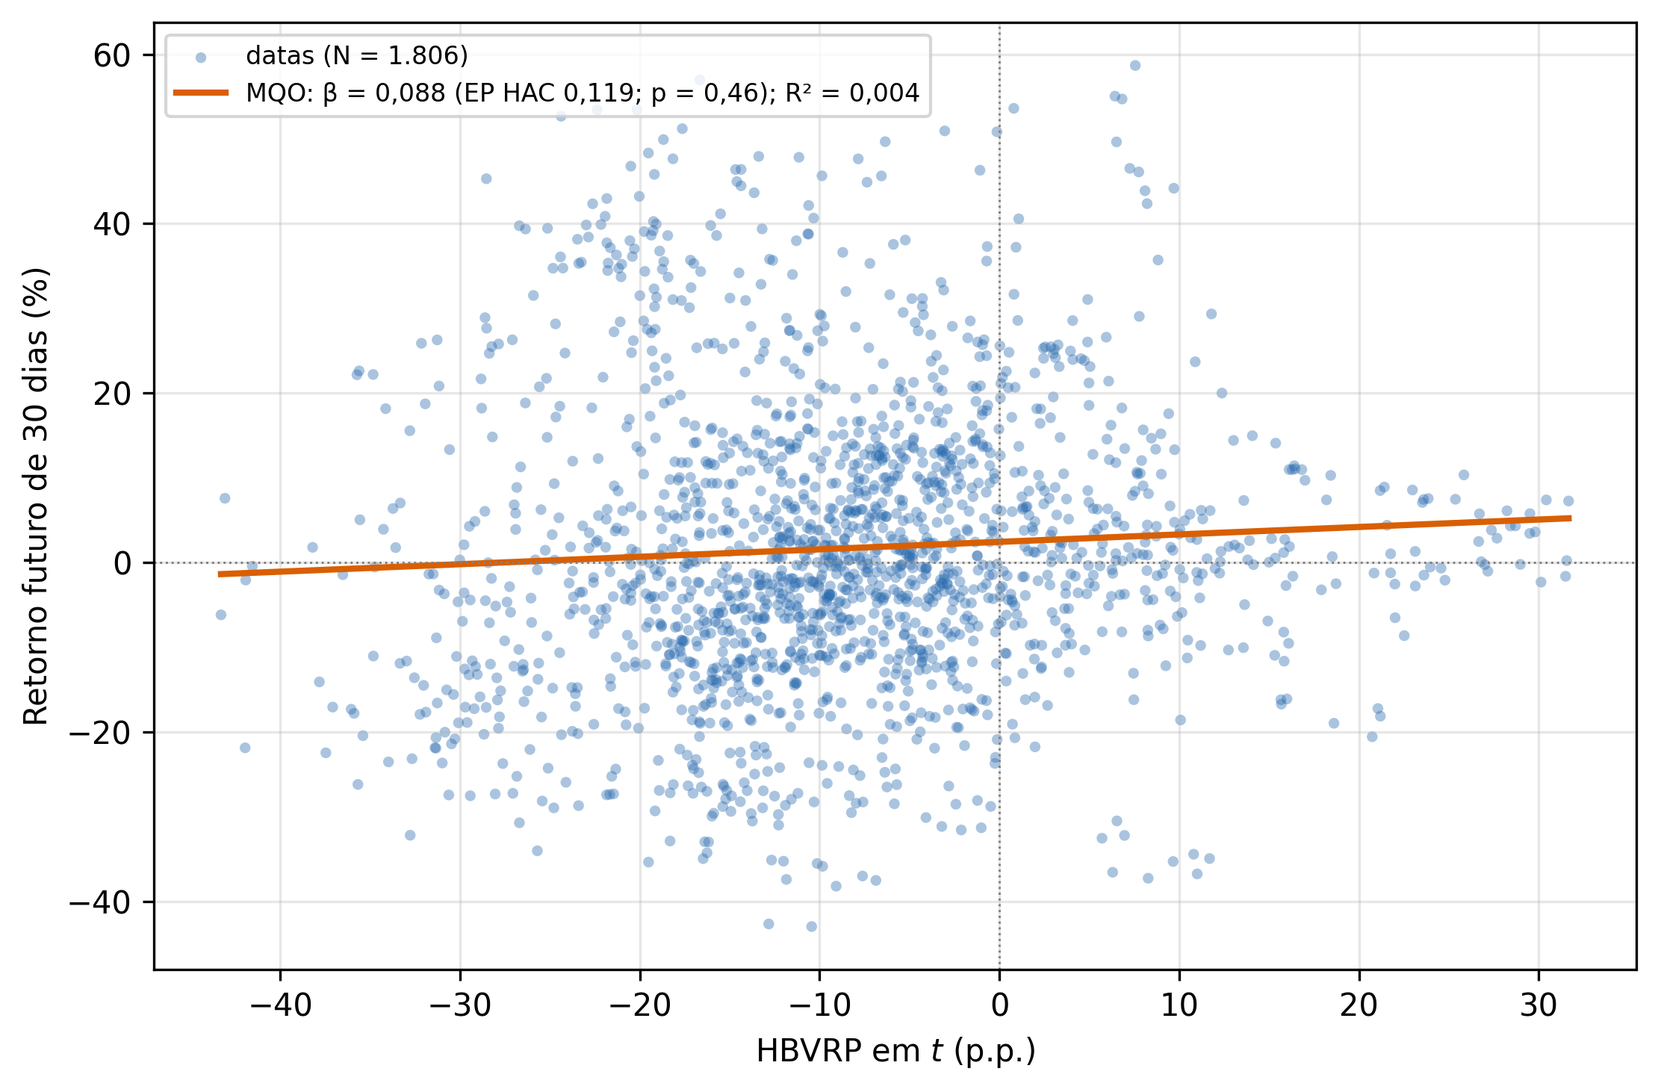
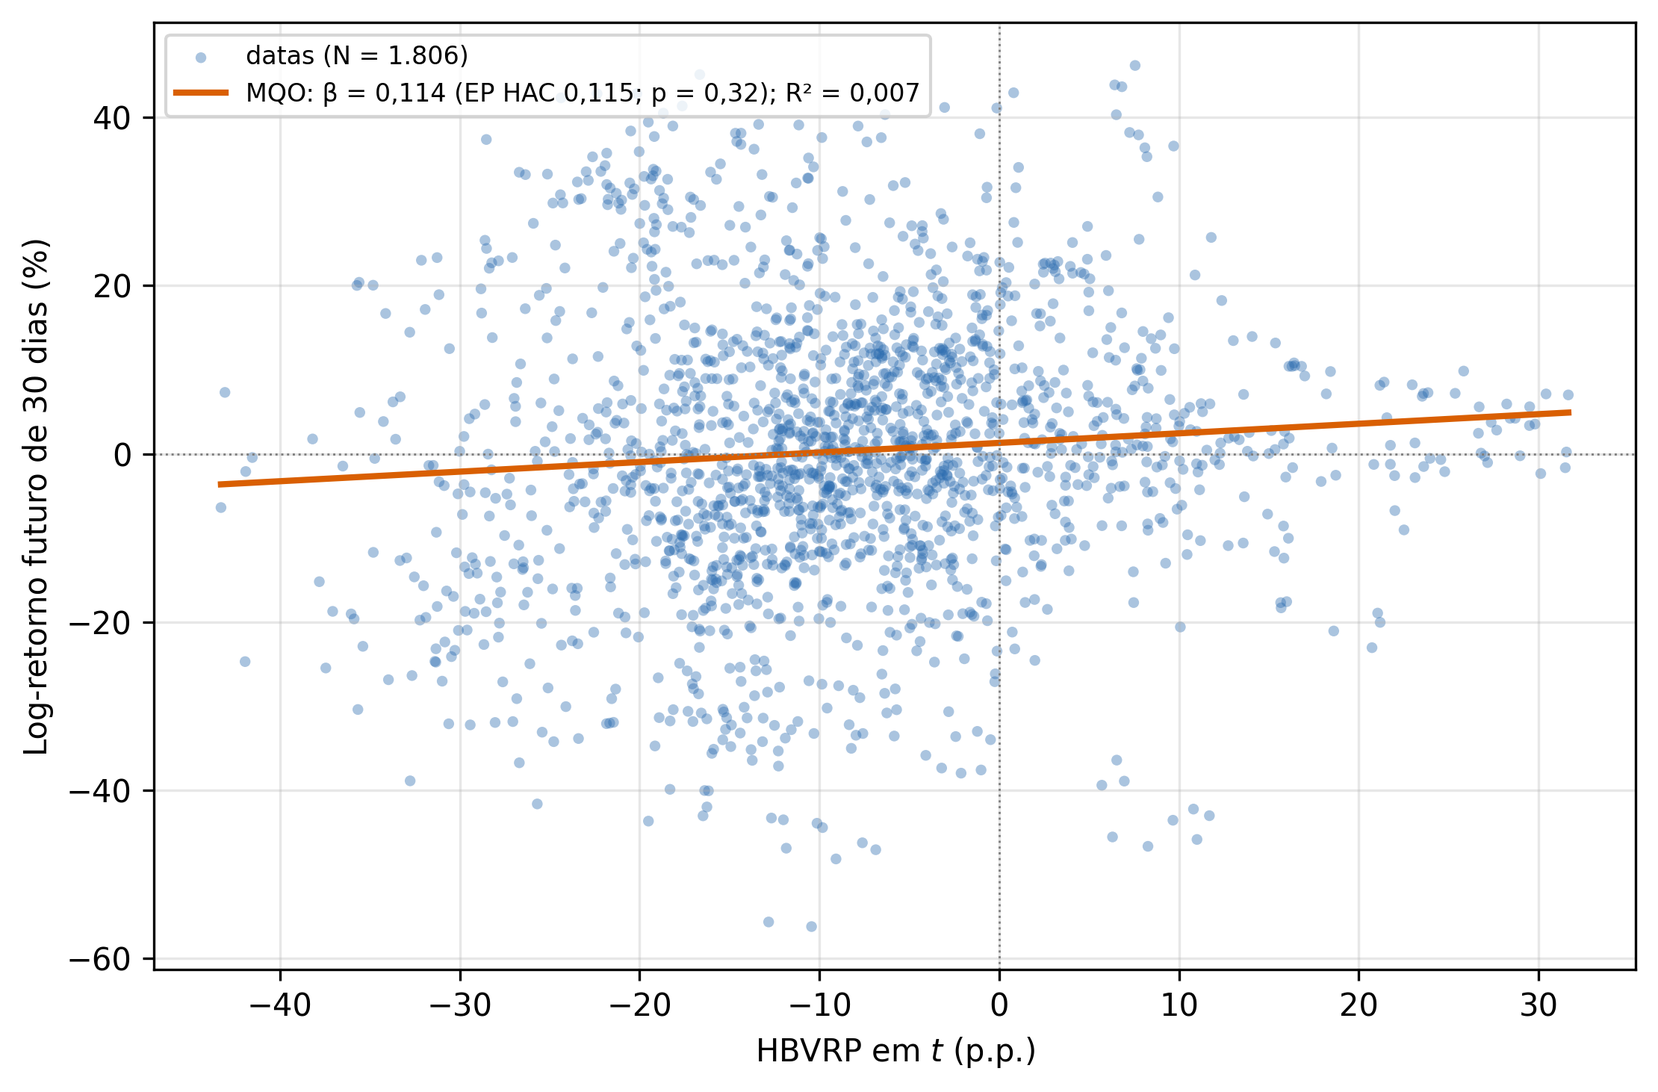
Rodada 3, B2: metodologia e dados com log-retorno, Wald, rotação, bootstrap de pares e Holm; figura 3.5 com log-retorno; Holm, Freedman–Lane e Politis–Romano na bibliografia

diff --git a/chapters/metodologia.tex b/chapters/metodologia.tex
@@ -10,10 +10,11 @@ amostras e os modelos utilizados ao longo da dissertação.
 
 A estratégia empírica tem duas etapas. Na primeira, a dissertação prevê o RBVRP
 fora da amostra, apenas com informação disponível em $t$. Na segunda, testa se
-o BVRP previsto prevê os retornos futuros do Bitcoin, primeiro com um modelo
-linear e depois com um modelo não linear em árvore, capaz de capturar
-não linearidades, efeitos de regime e interações características do mercado de
-criptoativos. Este capítulo concentra-se na definição formal das amostras e das
+as variáveis disponíveis em $t$ preveem o log-retorno futuro do Bitcoin,
+primeiro com um modelo linear e depois com a floresta aleatória, capaz de
+capturar não linearidades, efeitos de regime e interações características do
+mercado de criptoativos; o BVRP previsto entra como fator único, de forma
+complementar. Este capítulo concentra-se na definição formal das amostras e das
 especificações empíricas; os capítulos seguintes apresentam os
 resultados.
 
@@ -30,13 +31,14 @@ Quatro questões guiam a análise empírica, cada uma tratada em um capítulo:
     \item \textbf{Previsão do prêmio}: a informação disponível em $t$ prevê o
           RBVRP fora da amostra melhor que a média histórica? O
           Capítulo~\ref{chap:previsao_bvrp} compara modelos lineares e em árvore.
-    \item \textbf{Previsibilidade linear dos retornos}: o BVRP previsto prevê
-          linearmente os retornos futuros do Bitcoin? O
-          Capítulo~\ref{chap:retornos_linear} estima regressões lineares em seis
-          horizontes.
-    \item \textbf{Previsibilidade não linear}: um modelo em árvore, que escolhe
-          sozinho os cortes nas volatilidades, encontra a relação que o modelo
-          linear não encontra? O Capítulo~\ref{chap:retornos_nao_linear} responde.
+    \item \textbf{Previsibilidade linear dos retornos}: as variáveis
+          disponíveis em $t$ preveem linearmente o log-retorno do Bitcoin nos
+          $h$ dias seguintes, e o BVRP previsto, como fator único, carrega essa
+          informação? O Capítulo~\ref{chap:retornos_linear} testa as duas
+          hipóteses em seis horizontes.
+    \item \textbf{Previsibilidade não linear}: a floresta aleatória, aplicada
+          diretamente ao retorno, encontra a relação que o modelo linear não
+          encontra? O Capítulo~\ref{chap:retornos_nao_linear} responde.
 \end{enumerate}
 
 As estratégias de negociação baseadas no prêmio ficam no
@@ -77,9 +79,10 @@ qualquer $h \le 60$, o treino da primeira origem contém a janela inteira, e o
 período fora da amostra é o mesmo em todos os horizontes. Com $h = 30$, o
 primeiro treino vai até $t - 30$ e tem 760 observações: as 730 da primeira
 janela e as 30 seguintes, cujos alvos já se realizaram. Esse período
-é o mesmo nos Capítulos~\ref{chap:previsao_bvrp} a~\ref{chap:retornos_nao_linear}, porque o
-regressor dos Capítulos~\ref{chap:retornos_linear} e~\ref{chap:retornos_nao_linear} é o BVRP
-previsto no Capítulo~\ref{chap:previsao_bvrp}.
+é o mesmo nos Capítulos~\ref{chap:previsao_bvrp} a~\ref{chap:retornos_nao_linear}, o que
+permite usar o BVRP previsto do Capítulo~\ref{chap:previsao_bvrp} como fator
+único nos Capítulos~\ref{chap:retornos_linear} e~\ref{chap:retornos_nao_linear}
+e comparar as previsões do retorno nas mesmas datas.
 
 Na janela principal, expansiva, o treino acumula todas as datas desde o início
 da amostra de modelagem; como robustez, a janela móvel mantém os últimos 730
@@ -111,45 +114,53 @@ Os modelos de referência, com que as previsões são comparadas fora da
 amostra, são a média histórica dos alvos já conhecidos, o HBVRP e o prêmio
 realizado defasado, $\text{RBVRP}_{t-30}$.
 
-Na segunda etapa, o Capítulo~\ref{chap:retornos_linear} estima, para cada horizonte $h$, o modelo
-linear
+Na segunda etapa, o Capítulo~\ref{chap:retornos_linear} estima, para cada
+horizonte $h \in \{1, 5, 10, 20, 30, 60\}$, a regressão preditiva
 \begin{equation}
-R_{t+h} = \alpha_h + \beta_h \, \widehat{\text{BVRP}}_t + \varepsilon_{t+h},
+R^{\log}_{t,h} = \alpha_h + X_t'\beta_h + \varepsilon_{t+h},
+\label{eq:met-retorno-direto}
+\end{equation}
+em que $R^{\log}_{t,h}$ é o log-retorno do Bitcoin de $t$ a $t+h$
+(Seção~\ref{sec:dados-variaveis}) e $X_t$ reúne 16 das 17 variáveis
+explicativas: a volatilidade histórica de 30 dias sai porque é colinear com o
+HBVRP e a IV. O estimador é o MQO, na amostra de modelagem e nas 987 datas
+fora da amostra, e a hipótese nula é $\beta_h = 0$; a análise não impõe
+restrições \textit{a priori} sobre o sinal dos coeficientes. Fora da amostra,
+o MQO, o Ridge e o LASSO preveem $R^{\log}_{t,h}$ com as 16 variáveis, nas
+origens e com o embargo da Seção~\ref{sec:met-amostras}.
+
+De forma complementar, o BVRP previsto entra como fator único,
+\begin{equation}
+R^{\log}_{t,h} = \alpha_h + \beta_h \, \widehat{\text{BVRP}}_t + \varepsilon_{t+h},
 \label{eq:met-retorno-linear}
 \end{equation}
 em que $\widehat{\text{BVRP}}_t$ é o BVRP previsto para a data $t$ pelo modelo
-estimado na origem vigente, $\alpha_h$ é um intercepto específico ao horizonte
-de previsão, $\beta_h$ é o coeficiente de interesse e $\varepsilon_{t+h}$
-representa o termo de erro. O estimador é o MQO, aplicado às 987 datas fora da
-amostra. O $\widehat{\text{BVRP}}$ principal é o previsto pelo Ridge, e o da floresta aleatória serve de
-robustez --- escolha fixada antes de ver os resultados. A análise não impõe
-restrições \textit{a priori} sobre o sinal de $\beta_h$.
-
-Duas extensões complementam o modelo~\eqref{eq:met-retorno-linear}. A primeira
-substitui o prêmio por seus componentes:
+estimado na origem vigente, nas 987 datas fora da amostra. O
+$\widehat{\text{BVRP}}$ principal é o do Ridge; o da floresta aleatória, na
+forma $\hat f(X_t) - \text{IV}_t$, aparece ao lado. Duas extensões completam a
+análise. A primeira substitui as variáveis pelos dois componentes do HBVRP:
 \begin{equation}
-R_{t+h} = \alpha_h + \beta_{1,h} \, \text{VH}_{t-29:t} + \beta_{2,h} \,
+R^{\log}_{t,h} = \alpha_h + \beta_{1,h} \, \text{VH}_{t-29:t} + \beta_{2,h} \,
 \text{IV}_t + \varepsilon_{t+h}.
 \label{eq:met-retorno-componentes}
 \end{equation}
-Se $\beta_{1,h} + \beta_{2,h} = 0$, a diferença $\text{VH} - \text{IV}$,
-isto é, o HBVRP, sintetiza o conteúdo informacional conjunto das duas medidas. A segunda
-acrescenta o regime de volatilidade:
+Se $\beta_{1,h} + \beta_{2,h} = 0$, a diferença $\text{VH} - \text{IV}$, isto
+é, o HBVRP, sintetiza o conteúdo informacional conjunto das duas medidas. A
+segunda acrescenta o regime de volatilidade ao fator único:
 \begin{equation}
-R_{t+h} = \alpha_h + \beta_h \, \widehat{\text{BVRP}}_t + \delta_h \, D_t
+R^{\log}_{t,h} = \alpha_h + \beta_h \, \widehat{\text{BVRP}}_t + \delta_h \, D_t
 + \gamma_h \, D_t \, \widehat{\text{BVRP}}_t + \varepsilon_{t+h},
 \label{eq:met-retorno-regime}
 \end{equation}
-em que $D_t = 1$ no regime de alta volatilidade
-(Seção~\ref{sec:met-regimes}).
+em que $D_t = 1$ no regime de alta volatilidade (Seção~\ref{sec:met-regimes}).
 
-No modelo em árvore, o Capítulo~\ref{chap:retornos_nao_linear} reestima o modelo~\eqref{eq:met-retorno-linear} com
-$\widehat{\text{BVRP}}_t = \hat{f}(X_t) - \text{IV}_t$, em que $\hat{f}$ é uma
-floresta aleatória que prevê $\text{RV}_{t+1:t+30}$ com as mesmas variáveis,
-origens e embargo. A floresta escolhe sozinha os cortes nas volatilidades, o
-que substitui os regimes construídos à mão por um único modelo em árvore. Como
-robustez, a floresta prevê o RBVRP diretamente, e o Ridge entra nas duas
-formas.
+No Capítulo~\ref{chap:retornos_nao_linear}, uma floresta aleatória prevê o
+log-retorno diretamente, $R^{\log}_{t,h} = g_h(X_t) + \varepsilon_{t+h}$, com
+as 17 variáveis em nível, as mesmas origens e o embargo de $h$ dias, e é
+comparada fora da amostra com a média histórica e com os modelos lineares. A
+floresta escolhe sozinha os cortes nas volatilidades, o que substitui os
+regimes construídos à mão por um único modelo. Análises complementares usam o
+BVRP previsto pela floresta.
 
 % =========================================================
 \section{Inferência estatística}
@@ -169,30 +180,39 @@ erro-padrão do estimador de MQO, não no estimador. Mesmo com ela, 987 datas co
 alvos de 30 dias sobrepostos equivalem a cerca de 33 observações
 independentes, e os testes têm pouco poder.
 
-Nos Capítulos~\ref{chap:retornos_linear} e~\ref{chap:retornos_nao_linear}, o regressor é
-gerado: o BVRP previsto vem de um primeiro estágio estimado, e o erro-padrão de
-MQO do segundo estágio ignora a incerteza dessa estimação \citep{pagan1984}.
-Por isso, a inferência principal usa um bootstrap em blocos em dois níveis
-\citep{kunsch1989}. No primeiro nível, o bootstrap reestima o modelo de
-previsão, em cada origem, numa amostra reamostrada em blocos dentro da própria
-janela de treino, o que preserva o embargo. No segundo, reamostra em blocos os
-pares (previsão, retorno) das 987 datas e reestima $\beta_h$. O bootstrap em
-blocos tem validade assintótica sob condições sobre o tamanho do bloco, que
-cresce com a amostra, e pode trazer refinamentos em amostras finitas em alguns
-casos; ele não dispensa hipóteses assintóticas. O
-Capítulo~\ref{chap:retornos_linear} detalha o procedimento. Como a dissertação
-testa cada especificação em seis horizontes, ela reporta também quais
-coeficientes sobrevivem à correção de Bonferroni ($0{,}05/6 \approx 0{,}0083$).
-Como os seis horizontes são fortemente correlacionados entre si, a dissertação
-também testa conjuntamente a hipótese de que $\beta_h = 0$ em todos os
-horizontes, com a matriz de covariância dos coeficientes obtida no bootstrap;
-os Capítulos~\ref{chap:retornos_linear} e~\ref{chap:retornos_nao_linear} detalham o teste.
+Com 16 restrições e retornos sobrepostos, a distribuição $\chi^2$ aproxima mal
+a da estatística de Wald com erro-padrão HAC, e o teste rejeita a hipótese
+nula muito acima do nível nominal nas simulações do Apêndice~\ref{app:b2}. Por
+isso, os Capítulos~\ref{chap:retornos_linear} e~\ref{chap:retornos_nao_linear}
+avaliam a estatística de Wald, $W$, com dois testes de tamanho controlado. O
+primeiro é a rotação circular: $W$ é recalculado com $y$ deslocado em $k$ dias
+em relação às variáveis explicativas, $g_h \le k \le n - g_h$, com
+$g_h = \max(90, 3h)$, e o valor-$p$ é a posição de $W$ entre os das rotações.
+A rotação preserva a dependência de cada série e rompe só a relação entre
+elas. A rotação testa a independência entre $y$ e $X$, hipótese mais forte que
+$\beta = 0$, e pode ter tamanho distorcido sob mudanças de regime de
+volatilidade (Apêndice~\ref{app:b2}). Nas hipóteses sobre parte dos
+coeficientes, a rotação é a de \citet{freedman1983nonstochastic}: o resíduo do
+modelo restrito é deslocado e somado ao ajustado restrito. O segundo é o
+bootstrap de pares $(X_t, y_t)$ em blocos circulares \citep{politis1992circular}
+de $\max(30, 2h)$ dias, com 1.999 reamostragens e a estatística centrada na
+estimativa. Como a dissertação testa seis horizontes, os valores-$p$ são
+ajustados pelo procedimento de \citet{holm1979simple}, e o mínimo dos
+valores-$p$ da rotação entre os horizontes, com o mesmo deslocamento em todos
+eles, testa a hipótese nula nos seis de uma vez. Como sensibilidade, o HAC usa
+$2h+1$ defasagens.
+
+O BVRP previsto é um regressor gerado: vem de um primeiro estágio estimado, e
+os testes do fator único o tratam como dado \citep{pagan1984}. A
+Seção~\ref{sec:apb2-provisoria} traz os resultados da versão anterior, com o
+bootstrap em blocos em dois níveis \citep{kunsch1989}, que reestima o
+primeiro estágio em cada reamostragem.
 
 % =========================================================
 \section{Avaliação fora da amostra}
 \label{sec:met-avaliacao}
 
-O Capítulo~\ref{chap:previsao_bvrp} mede o desempenho das previsões pelo $R^2$
+Os Capítulos~\ref{chap:previsao_bvrp} a~\ref{chap:retornos_nao_linear} medem o desempenho das previsões pelo $R^2$
 fora da amostra contra a média histórica \citep{campbell2008predicting},
 \[
 R^2_{\text{fora}} = 1 - \frac{\sum_t (y_t - \hat{y}_t)^2}{\sum_t (y_t - \bar{y}_t)^2},
@@ -215,8 +235,7 @@ menos $1-\alpha$, os modelos de menor perda esperada. Cada modelo recebe um
 valor-$p$ e pertence ao conjunto de nível $\alpha$ sempre que esse valor-$p$ é
 maior ou igual a $\alpha$. A dissertação usa a perda quadrática e a estatística
 $T_{\max}$, o maior desvio padronizado entre a perda média de um modelo e a do
-conjunto. A distribuição vem de um bootstrap com os mesmos blocos móveis de 60
-dias do segundo nível do bootstrap da Seção~\ref{sec:met-inferencia}, mais
+conjunto. A distribuição vem de um bootstrap com blocos móveis de 60 dias, mais
 longos que a sobreposição de 30 dias dos alvos, com 9.999 reamostragens; o
 nível principal é de 10\%. Como sensibilidade, a dissertação repete o
 procedimento com blocos de 30 e 90 dias, com a estatística $T_R$ (o maior

diff --git a/chapters/dados.tex b/chapters/dados.tex
@@ -268,7 +268,7 @@ temporal e efeitos de regime nos capítulos subsequentes.
 Por fim, esta seção examina a relação exploratória entre o prêmio de risco de
 volatilidade do Bitcoin e os retornos futuros do ativo. A
 Figura~\ref{fig:dados-bvrp-retorno-30d} apresenta o gráfico de dispersão entre o
-HBVRP observado em $t$ e o retorno acumulado do Bitcoin
+HBVRP observado em $t$ e o log-retorno do Bitcoin
 nos 30 dias seguintes, juntamente com a reta de MQO. O horizonte de 30 dias
 coincide com o do prêmio. A figura usa o HBVRP, e não o RBVRP, porque o RBVRP
 de $t$ é calculado com os mesmos retornos de $t+1$ a $t+30$ que formam o
@@ -278,22 +278,22 @@ retorno futuro, e a relação entre os dois seria em parte mecânica.
 \begin{figure}[H]
     \centering
     \includegraphics[width=0.75\linewidth]{figs/dados/vrp_vs_return_30d.png}
-    \caption[HBVRP e retorno do Bitcoin nos 30 dias seguintes]{Relação exploratória entre o HBVRP em $t$ e o
-    retorno do Bitcoin nos 30 dias seguintes ($N = 1.806$). Reta de MQO, com
+    \caption[HBVRP e log-retorno do Bitcoin nos 30 dias seguintes]{Relação exploratória entre o HBVRP em $t$ e o
+    log-retorno do Bitcoin nos 30 dias seguintes ($N = 1.806$). Reta de MQO, com
     erro-padrão de Newey--West de 31 defasagens.}
     \label{fig:dados-bvrp-retorno-30d}
 \end{figure}
 }{}
 
 O gráfico não evidencia associação linear relevante entre o prêmio e os
-retornos futuros: o coeficiente da reta é de $0{,}088$ (erro-padrão HAC de
-$0{,}119$; valor-$p$ de $0{,}46$), o $R^2$ é de $0{,}004$ e a correlação, de
-$0{,}06$, e a nuvem de pontos dispersa-se amplamente em torno de uma reta quase
+retornos futuros: o coeficiente da reta é de $0{,}114$ (erro-padrão HAC de
+$0{,}115$; valor-$p$ de $0{,}32$), o $R^2$ é de $0{,}007$ e a correlação, de
+$0{,}08$, e a nuvem de pontos dispersa-se amplamente em torno de uma reta quase
 horizontal. Essa ausência de relação linear na análise exploratória antecipa,
-de forma preliminar, o resultado central do Capítulo~\ref{chap:retornos_linear},
-em que o regressor é o BVRP previsto, e não o HBVRP, e nenhum horizonte é
-significante depois das correções para o regressor gerado e para as
-comparações múltiplas. A dispersão
+de forma preliminar, o resultado central do Capítulo~\ref{chap:retornos_linear}:
+as 16 variáveis disponíveis em $t$ não preveem, em conjunto, o log-retorno em
+nenhum horizonte, e o BVRP previsto pelo Ridge tem só evidência fraca e
+frágil, no horizonte de um dia. A dispersão
 elevada indica que, se o prêmio de risco de volatilidade carrega conteúdo
 informacional sobre o desempenho futuro do Bitcoin, esse conteúdo não se
 manifesta em uma relação linear simples --- motivando as abordagens não
@@ -308,18 +308,20 @@ bem como os horizontes temporais considerados na análise. Todas as variáveis
 são construídas a partir das séries descritas neste capítulo.
 
 A variável dependente dos Capítulos~\ref{chap:retornos_linear}
-e~\ref{chap:retornos_nao_linear} é o retorno futuro do Bitcoin no mercado à vista, definido
-como o retorno simples acumulado ao longo de um horizonte de $h$ dias:
+e~\ref{chap:retornos_nao_linear} é o log-retorno do Bitcoin no mercado à
+vista, acumulado ao longo de um horizonte de $h$ dias, em pontos percentuais:
 \[
-R_{t+h} = \frac{P_{t+h}}{P_t} - 1,
+R^{\log}_{t,h} = 100 \, \ln\!\left(\frac{P_{t+h}}{P_t}\right),
 \]
 em que $P_t$ denota o preço de fechamento do Bitcoin no instante $t$ e
-$h \in \{1, 5, 10, 20, 30, 60\}$ representa o horizonte de previsão. O retorno
-simples corresponde ao retorno efetivo de uma posição no ativo. As
-volatilidades realizada e histórica, por sua vez, usam log-retornos diários, e
-essa escolha não é uma convenção: o log-retorno de um período é exatamente a
-soma dos log-retornos diários dentro dele, o que permite construir a variância
-do período somando os quadrados dos retornos diários.
+$h \in \{1, 5, 10, 20, 30, 60\}$ representa o horizonte de previsão. O
+log-retorno de $h$ dias é exatamente a soma dos log-retornos diários de $t+1$
+a $t+h$, o que torna os horizontes comparáveis entre si; é a mesma
+propriedade que permite construir a variância de um período somando os
+quadrados dos log-retornos diários, nas volatilidades realizada e histórica.
+O retorno simples, $P_{t+h}/P_t - 1$, é o retorno efetivo de uma posição no
+ativo; a versão anterior das análises o usava, e o Apêndice~\ref{app:b2}
+compara os dois.
 
 A variável-alvo do Capítulo~\ref{chap:previsao_bvrp} é o RBVRP,
 $\text{RBVRP}_t = \text{RV}_{t+1:t+30} - \text{IV}_t$, definido na

diff --git a/chapters/retornos_linear.tex b/chapters/retornos_linear.tex
@@ -67,13 +67,13 @@ com S3; 8,5\% e 10,3\% nas 987 datas com S1 e S3). A rotação testa a
 independência entre $y$ e $X$, hipótese mais forte que $\beta_h = 0$, e pode
 ter tamanho distorcido sob mudanças de regime de volatilidade, que tornam $y$
 não estacionário; o apêndice de tamanho e poder discute esse ponto. O segundo
-é o bootstrap de pares $(X_t, y_t)$ em blocos circulares de $\max(30, 2h)$
+é o bootstrap de pares $(X_t, y_t)$ em blocos circulares \citep{politis1992circular} de $\max(30, 2h)$
 dias, com 1.999 reamostragens e $W^*$ centrado em $\hat\beta_h$, que não
 rejeita demais: seu tamanho fica perto do nominal em $h = 1$, de 4,1\% a 4,5\%
 nos 16 previsores, e é conservador em $h = 30$ e $h = 60$, de 0,2\% a 2,1\%.
 
 Como a dissertação testa seis horizontes, os valores-$p$ são ajustados pelo
-procedimento de Holm, e o mínimo dos valores-$p$ da rotação entre os
+procedimento de Holm \citep{holm1979simple}, e o mínimo dos valores-$p$ da rotação entre os
 horizontes, com o mesmo deslocamento $k$ em todos eles, testa a hipótese nula
 nos seis de uma vez. O poder dos testes é baixo. Em $h = 30$, com ruído S1 e
 $R^2$ populacional de 5\%, a rotação detecta a relação em 50,6\% das réplicas
@@ -174,7 +174,7 @@ fica perto de zero e troca de sinal, e nenhum teste rejeita ($p \ge 0{,}64$).
 A Tabela~\ref{tab:apb2-regime}, no apêndice, permite inclinações diferentes
 nos regimes de baixa e de alta volatilidade, em $h = 30$ e $h = 60$. A
 inclinação no regime de baixa tem evidência fraca com o corte fixo de
-$37{,}3\%$ a.a.: o valor-$p$ da rotação de Freedman--Lane é 0,027 em $h = 30$
+$37{,}3\%$ a.a.: o valor-$p$ da rotação de Freedman--Lane \citep{freedman1983nonstochastic} é 0,027 em $h = 30$
 e 0,022 em $h = 60$, e o do bootstrap fica em 0,086 e 0,076. Com o corte
 reestimado em cada origem, não há evidência (Freedman--Lane 0,185 e 0,119;
 bootstrap 0,227 e 0,213). A inclinação no regime de alta não difere de zero

diff --git a/code/plot_vrp_vs_return_T12.py b/code/plot_vrp_vs_return_T12.py
@@ -4,7 +4,8 @@ plot_vrp_vs_return_T12.py — dispersão HBVRP x retorno futuro de 30 dias (T12)
 Substitui, para o Cap. 3, a figura de code/plot_vrp_vs_return.py com h = 20
 (figs/dados/vrp_vs_return_20d.png) por h = 30, alinhando o horizonte ao do BVRP
 (plano, T12). Figura descritiva: usa o HBVRP, coluna vrp_30d (conhecido em t) e a
-amostra descritiva (data/vrp_with_targets.csv, N = 1.806). A reta é de MQO, e
+amostra descritiva (data/vrp_with_targets.csv, N = 1.806). O retorno é o
+log-retorno de 30 dias, 100 · log1p(ret_fut_30d), como nos Caps. 6 e 7. A reta é de MQO, e
 a legenda traz b com erro-padrão de Newey–West com h+1 = 31 defasagens
 (hac_utils), no lugar da correlação simples da versão antiga.
 
@@ -48,7 +49,7 @@ def main():
     args = ap.parse_args()
     os.makedirs(OUT, exist_ok=True)
     df = pd.read_csv(os.path.join(ROOT, "data", "vrp_with_targets.csv"), parse_dates=["date"]).sort_values("date")
-    x, y = df["vrp_30d"], 100 * df[f"ret_fut_{H}d"]
+    x, y = df["vrp_30d"], 100 * np.log1p(df[f"ret_fut_{H}d"])        # log-retorno de t a t+30, em %
     res = mqo_newey_west(y, x, h=H)
     a, b = res.params["const"], res.params["vrp_30d"]
     pd.DataFrame([{"h": H, "n": int(res.nobs), "inicio": df.date.min().date(), "fim": df.date.max().date(),
@@ -65,7 +66,7 @@ def main():
     ax.axhline(0, color="gray", linewidth=0.7, linestyle=":")
     ax.axvline(0, color="gray", linewidth=0.7, linestyle=":")
     ax.set_xlabel(r"HBVRP em $t$ (p.p.)")
-    ax.set_ylabel(f"Retorno futuro de {H} dias (%)")
+    ax.set_ylabel(f"Log-retorno futuro de {H} dias (%)")
     ax.legend(fontsize=8, loc="upper left")
     ax.grid(True, alpha=0.3)
     fig.tight_layout()

diff --git a/chapters/apendice_b2.tex b/chapters/apendice_b2.tex
@@ -33,7 +33,10 @@ independentes, e o tamanho sob S2 não é estimado com a precisão nominal.
 A Tabela~\ref{tab:apb2-regime} estima a regressão do retorno no BVRP previsto
 pelo Ridge com inclinações diferentes nos regimes de baixa e de alta
 volatilidade, com os cortes fixo e reestimado em cada origem, em $h = 30$ e
-$h = 60$. A Seção~\ref{sec:retlin-um-fator} discute os resultados.
+$h = 60$. Os testes de parte dos coeficientes usam a rotação de
+\citet{freedman1983nonstochastic} e o bootstrap de pares em blocos circulares
+\citep{politis1992circular}. A Seção~\ref{sec:retlin-um-fator} discute os
+resultados.
 
 \input{tables/apendice_b2/tab_regime}
 
